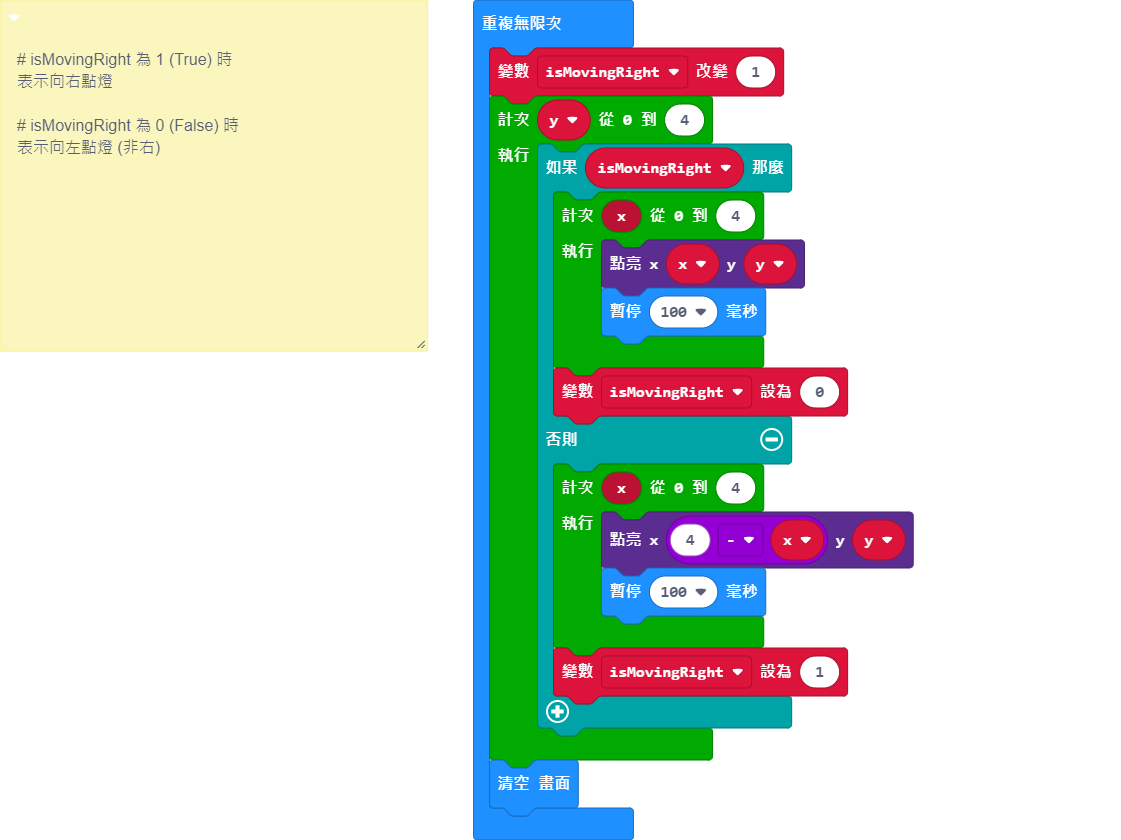
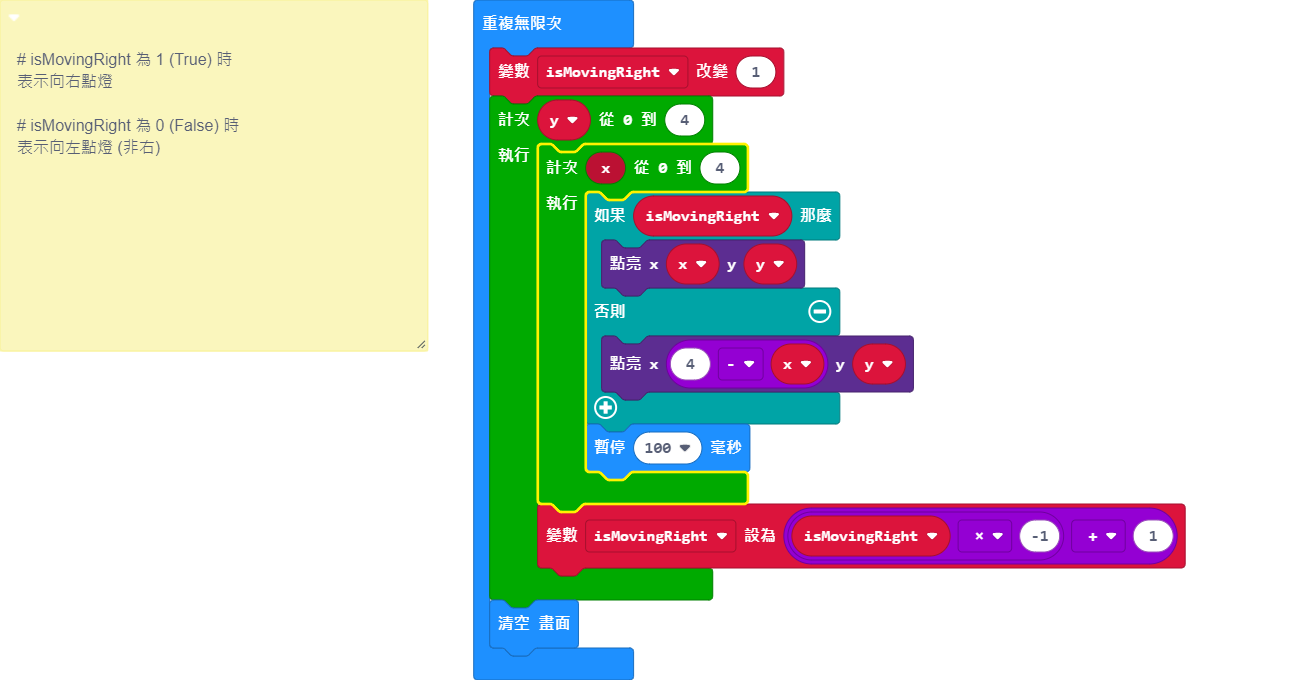
remove redundant code

diff --git a/main.ts b/main.ts
@@ -11,19 +11,15 @@ let isMovingRight = 0
 basic.forever(function () {
     isMovingRight += 1
     for (let y = 0; y <= 4; y++) {
-        if (isMovingRight) {
-            for (let x = 0; x <= 4; x++) {
+        for (let x = 0; x <= 4; x++) {
+            if (isMovingRight) {
                 led.plot(x, y)
-                basic.pause(100)
-            }
-            isMovingRight = 0
-        } else {
-            for (let x = 0; x <= 4; x++) {
+            } else {
                 led.plot(4 - x, y)
-                basic.pause(100)
             }
-            isMovingRight = 1
+            basic.pause(100)
         }
+        isMovingRight = isMovingRight * -1 + 1
     }
     basic.clearScreen()
 })
